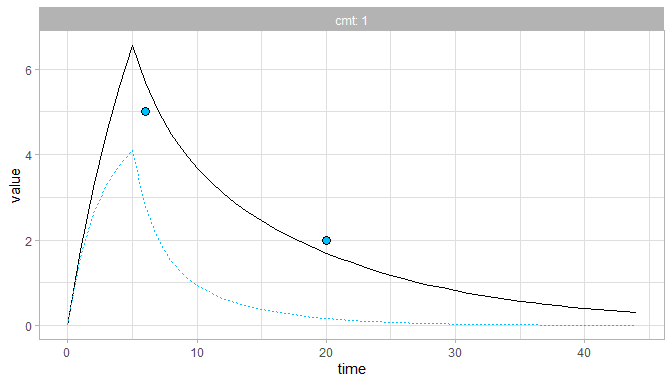
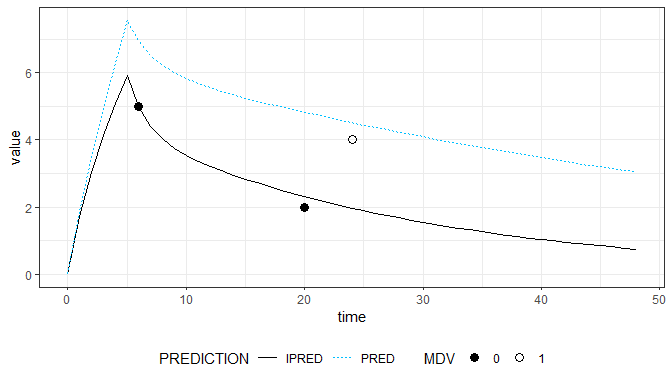
Readme

diff --git a/README.md b/README.md
@@ -37,54 +37,121 @@ of mrgsolve for additional information.
 ``` r
 library(mapbayr)
 library(mrgsolve)
+```
 
-my_model <- mread("ex_mbr3.cpp", mbrlib())
+#### 1\) Properly code you model
 
+``` r
+code <- "
+$PROB
+- drug: Examplinib
+- model_ref: XXX, J Pharmacokinet, 2020
+
+$PARAM @annotated
+TVCL:  0.5 : Clearance
+TVV1: 20.0 : Central volume
+V2  : 10.0 : Peripheral volume of distribution
+Q   :  3.0 : Intercompartmental clearance
+
+ETA1: 0 : Clearance (L/h)
+ETA2: 0 : Central volume (L)
+
+$OMEGA 0.3 0.2
+$SIGMA
+0.06 // proportional
+0.1 // additive
+
+$CMT @annotated
+CENT  : Central compartment (mg/L)[ADM, OBS]
+PERIPH: Peripheral compartment ()
+
+$TABLE
+double DV = (CENT/V2) *(1 + EPS(1)) + EPS(2);
+
+$MAIN
+double CL = TVCL * exp(ETA1 + ETA(1)) ;
+double V1 = TVV1 * exp(ETA2 + ETA(2)) ;
+double K12 = Q / V1  ;
+double K21 = Q / V2  ;
+double K10 = CL / V1 ;
+
+$ODE
+dxdt_CENT   =  K21 * PERIPH - (K10 + K12) * CENT ;
+dxdt_PERIPH =  K12 * CENT - K21 * PERIPH ;
+
+$CAPTURE DV
+"
+
+
+my_model <- mcode("Example_model", code)
+```
+
+#### 2\) Build your dataset
+
+``` r
 my_data <- data.frame(
   ID = 1, 
-  time = c(0, 6, 20),
-  amt = c(100, NA, NA), 
-  rate = c(20, 0, 0), 
-  DV = c(NA, 5, 2), 
+  time = c(0, 6, 20, 24),
+  amt = c(100, NA, NA, NA), 
+  rate = c(20, 0, 0, 0), 
+  DV = c(NA, 5, 2, 4), 
   cmt = 1, 
-  evid = c(1,0,0), 
-  mdv = c(1,0,0)
+  evid = c(1, 0, 0, 0), 
+  mdv = c(1, 0, 0, 1)
 )
-
-est <- my_model %>% 
-  data_set(my_data) %>% 
-  mbrest()
 ```
+
+#### 3\) And estimate \!
 
 ``` r
-print(est$mapbay_tab)
-#> # A tibble: 3 x 10
-#>      ID  time  evid   amt   cmt  rate   mdv    DV IPRED  PRED
-#>   <dbl> <dbl> <dbl> <dbl> <dbl> <dbl> <dbl> <dbl> <dbl> <dbl>
-#> 1     1     0     1   100     1    20     1    NA  0    0    
-#> 2     1     6     0     0     1     0     0     5  5.68 2.80 
-#> 3     1    20     0     0     1     0     0     2  1.69 0.163
+est <- mbrest(my_model, data = my_data)
+#> 
+#> ID 1... done.
 ```
 
-``` r
-est %>% 
-  mbrpred() %>% 
-  mbrplot()
-```
-
-![](man/figures/README-plot1-1.png)<!-- -->
-
-If you are too lazy to build a dataset by yourself, you can pass
-administration and observation information through pipe-friendly
-functions, such as:
+As building dataset into a NM-tran format can be painful, you can use
+pipe-friendly functions in order to pass administration and observation
+information, and perform the estimation subsequently.
 
 ``` r
 est <- my_model %>% 
   adm_lines(time = 0, amt = 100, rate = 20) %>% 
   obs_lines(time = 6, DV = 5) %>% 
   obs_lines(time = 20, DV = 2) %>% 
+  obs_lines(time = 24, DV = 4, mdv = 1) %>% 
   mbrest()
 ```
+
+``` r
+print(est)
+#> Example Model 
+#> ID : 1  individual(s).
+#> OBS: 2  observation(s).
+#> ETA: 2  parameter(s) to estimate.
+#> 
+#> Estimates: 
+#>   ID      ETA1      ETA2
+#> 1  1 0.6180307 -0.542415
+#> 
+#> Output (4 lines): 
+#>   ID time amt rate DV    IPRED     PRED cmt evid mdv      ETA1      ETA2
+#> 1  1    0 100   20 NA 0.000000 0.000000   1    1   1 0.6180307 -0.542415
+#> 2  1    6  NA    0  5 4.991384 6.946975   1    0   0 0.6180307 -0.542415
+#> 3  1   20  NA    0  2 2.317034 4.819891   1    0   0 0.6180307 -0.542415
+#> 4  1   24  NA    0  4 1.973957 4.513590   1    0   1 0.6180307 -0.542415
+```
+
+``` r
+mbrplot(est)
+```
+
+![](man/figures/README-plot1-1.png)<!-- -->
+
+``` r
+mbrdist(est)  
+```
+
+![](man/figures/README-plot2-1.png)<!-- -->
 
 ## Features
 
@@ -97,7 +164,7 @@ features are:
   - handles multiple error models such as additive, proportional, mixed
     or exponential error (without prior log-transformation of data).
   - fit multiple patients.
-  - fit both parent drugs and metabolites simultaneously.
+  - fit both parent drug and metabolite simultaneously.
   - accepts any kind of models thanks to the flexibility of mrgsolve.
   - functions to easily pass administration and observation information,
     as well as plot methods to visualize predictions and parameter
@@ -274,10 +341,9 @@ double CL = TVCL * exp(ETA1 + ETA(1))
 
 ### 8\. `$CAPTURE` block
 
-DV and ETAn must be captured, as well as PAR and MET for models with
-parent + metabolite.
+DV must be captured, as well as PAR and MET for models with parent +
+metabolite.
 
 ``` c
-$CAPTURE 
-DV ETA1 ETA2 ETA3 PAR MET
+$CAPTURE DV PAR MET
 ```
